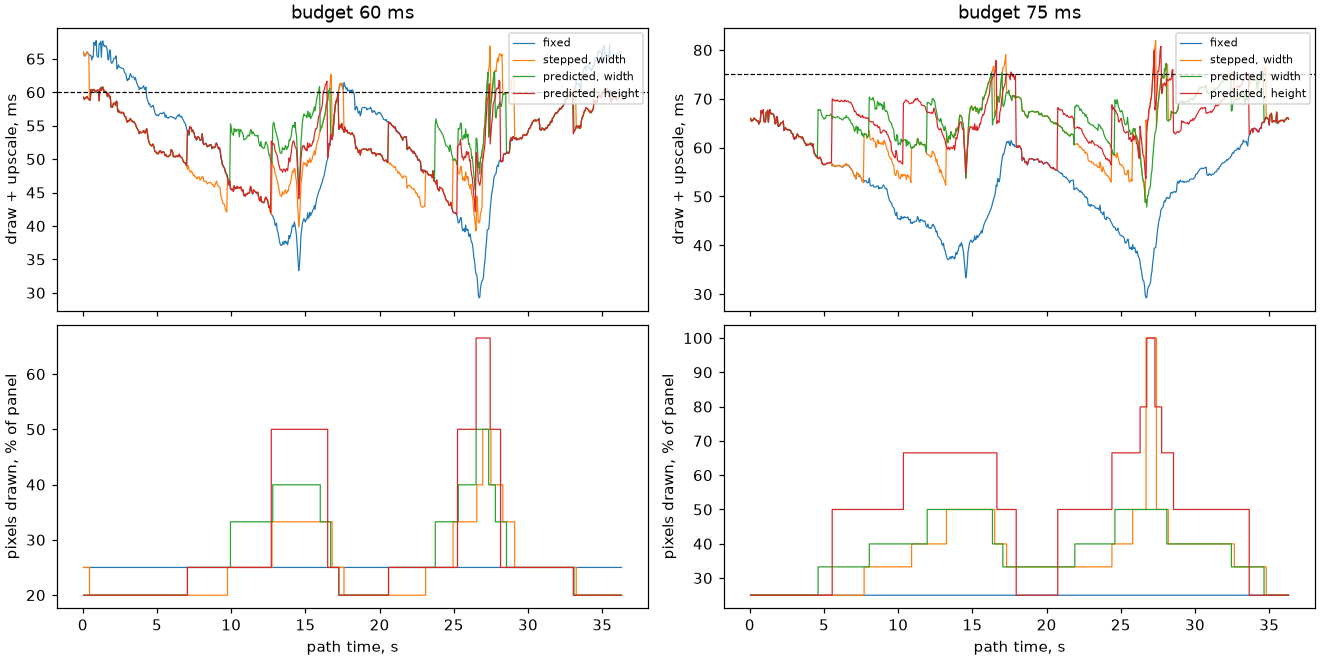
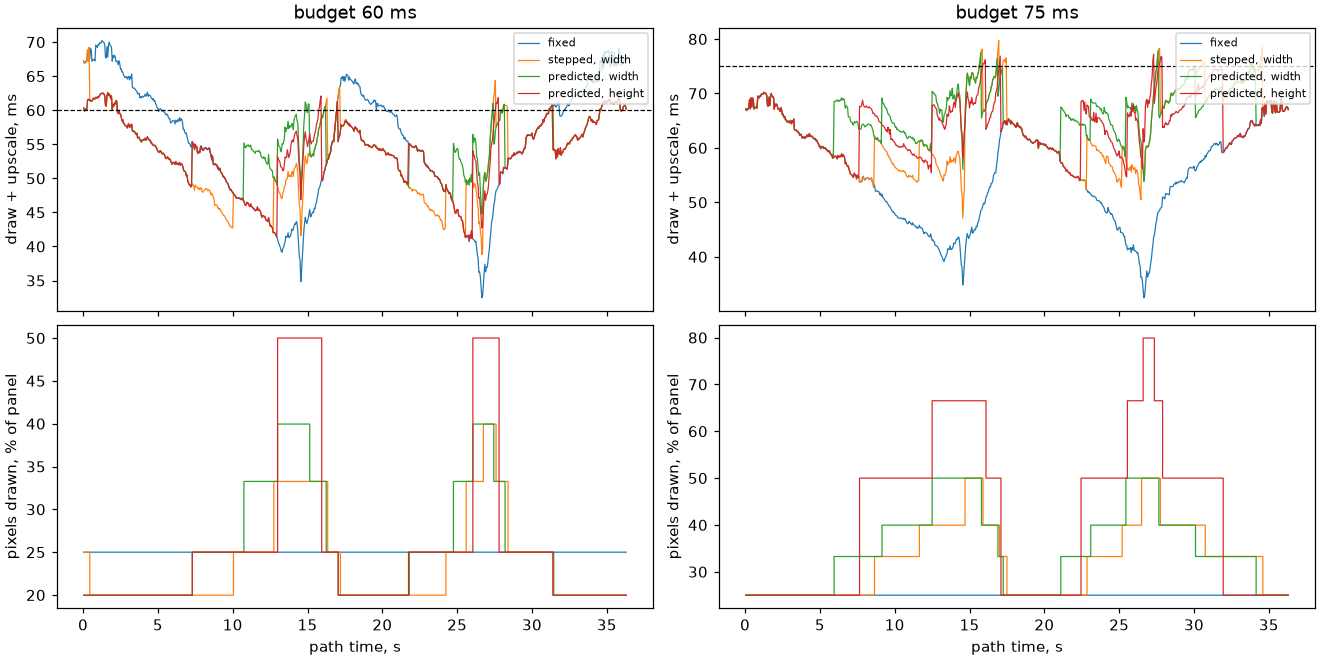
docs: dynamic resolution's tables and chart from the merged build's capture

diff --git a/docs/render/Dynamic-Resolution.md b/docs/render/Dynamic-Resolution.md
@@ -30,26 +30,26 @@ predictor the cull is the census, `r3d.census`. The suite behind
 these tables draws the test scene's path at every size, both cores, and then
 once more on one core with the span rasterizer stopped after each stage.
 
-<!-- generated: dynres-stages sha256=34e0b9b71cc5fc7c9f2d122271a0ceda364390de91e4aba90f187a701df946ff -->
+<!-- generated: dynres-stages sha256=626f185dacdc38357ec4f73079671705e20598f87e5207ef003755c31d036c72 -->
 | Render size | Divisor | Pixels | Frame mean | p50 | max | cull | transform | draw | upscale | 1 core: setup | rows | span setup | fill |
 |---|---|---|---|---|---|---|---|---|---|---|---|---|---|
-| 368x448 | 1.00 | 100% | 106.9 | 108.3 | 126.6 | 0.6 | 4.4 | 91.6 | 10.3 | 32.9 | 33.5 | 33.4 | 44.7 |
-| 184x448 | 2.00 x 1.00 | 50% | 81.7 | 82.5 | 96.9 | 0.6 | 4.4 | 69.4 | 7.3 | 30.7 | 32.0 | 28.7 | 19.5 |
-| 184x358 | 2.00 x 1.25 | 40% | 69.9 | 71.5 | 85.4 | 0.6 | 4.4 | 58.2 | 6.6 | 29.8 | 26.3 | 22.9 | 13.8 |
-| 184x298 | 2.00 x 1.50 | 33% | 62.6 | 63.3 | 77.1 | 0.6 | 4.4 | 51.2 | 6.3 | 29.1 | 22.5 | 19.0 | 10.7 |
-| 184x224 | 2.00 | 25% | 53.3 | 54.0 | 66.0 | 0.6 | 4.4 | 42.4 | 5.9 | 28.1 | 17.7 | 14.2 | 7.3 |
-| 184x179 | 2.00 x 2.50 | 20% | 47.7 | 48.1 | 59.8 | 0.6 | 4.4 | 37.0 | 5.6 | 27.3 | 14.8 | 11.3 | 4.9 |
-| 184x149 | 2.00 x 3.01 | 17% | 43.9 | 44.6 | 55.0 | 0.6 | 4.4 | 33.4 | 5.4 | 26.7 | 12.8 | 9.3 | 3.5 |
-| 368x358 | 1.00 x 1.25 | 80% | 90.7 | 91.6 | 110.1 | 0.6 | 4.4 | 76.4 | 9.3 | 32.1 | 27.7 | 26.7 | 34.1 |
-| 368x298 | 1.00 x 1.50 | 67% | 79.7 | 79.7 | 97.5 | 0.6 | 4.4 | 66.4 | 8.2 | 31.6 | 23.8 | 22.1 | 27.2 |
-| 368x224 | 1.00 x 2.00 | 50% | 66.3 | 66.2 | 81.7 | 0.6 | 4.4 | 54.0 | 7.3 | 30.7 | 18.9 | 16.6 | 19.0 |
-| 294x358 | 1.25 | 64% | 84.2 | 84.7 | 102.4 | 0.6 | 4.4 | 69.4 | 9.7 | 31.3 | 27.3 | 25.5 | 25.6 |
-| 276x336 | 1.33 | 56% | 79.4 | 79.8 | 97.2 | 0.6 | 4.4 | 64.7 | 9.7 | 30.9 | 25.7 | 23.6 | 22.4 |
-| 245x298 | 1.50 | 44% | 70.8 | 70.8 | 87.1 | 0.6 | 4.4 | 56.8 | 8.9 | 30.1 | 23.0 | 20.4 | 16.1 |
-| 210x256 | 1.75 | 33% | 63.6 | 64.6 | 78.2 | 0.6 | 4.4 | 50.0 | 8.6 | 29.0 | 20.0 | 16.8 | 12.4 |
-| 245x224 | 1.50 x 2.00 | 33% | 60.4 | 60.6 | 74.7 | 0.6 | 4.4 | 46.6 | 8.7 | 29.1 | 18.2 | 15.3 | 11.3 |
-| 147x179 | 2.50 | 16% | 47.5 | 47.9 | 58.8 | 0.6 | 4.4 | 34.6 | 7.7 | 26.5 | 14.4 | 10.6 | 3.2 |
-| 122x149 | 3.02 | 11% | 42.4 | 43.2 | 52.4 | 0.6 | 4.4 | 29.8 | 7.5 | 25.2 | 12.1 | 8.2 | 1.3 |
+| 368x448 | 1.00 | 100% | 115.2 | 114.9 | 135.1 | 0.7 | 4.3 | 99.8 | 10.4 | 33.6 | 34.5 | 35.0 | 54.3 |
+| 184x448 | 2.00 x 1.00 | 50% | 87.2 | 87.6 | 103.1 | 0.7 | 4.3 | 74.7 | 7.5 | 31.5 | 33.1 | 30.4 | 23.5 |
+| 184x358 | 2.00 x 1.25 | 40% | 74.1 | 74.6 | 88.1 | 0.7 | 4.3 | 62.3 | 6.7 | 30.6 | 27.2 | 24.2 | 16.7 |
+| 184x298 | 2.00 x 1.50 | 33% | 65.9 | 66.5 | 79.2 | 0.7 | 4.3 | 54.5 | 6.3 | 29.9 | 23.2 | 20.1 | 13.0 |
+| 184x224 | 2.00 | 25% | 56.0 | 56.6 | 68.4 | 0.7 | 4.3 | 45.0 | 5.9 | 28.8 | 18.2 | 15.0 | 8.9 |
+| 184x179 | 2.00 x 2.50 | 20% | 50.0 | 50.5 | 61.3 | 0.7 | 4.4 | 39.4 | 5.6 | 28.0 | 15.2 | 11.9 | 6.1 |
+| 184x149 | 2.00 x 3.01 | 17% | 45.8 | 46.6 | 56.2 | 0.7 | 4.3 | 35.3 | 5.4 | 27.4 | 13.1 | 9.9 | 4.5 |
+| 368x358 | 1.00 x 1.25 | 80% | 97.0 | 96.1 | 115.5 | 0.7 | 4.3 | 82.8 | 9.1 | 32.8 | 28.5 | 27.9 | 41.4 |
+| 368x298 | 1.00 x 1.50 | 67% | 84.9 | 84.6 | 101.6 | 0.7 | 4.3 | 71.5 | 8.3 | 32.3 | 24.5 | 23.1 | 33.2 |
+| 368x224 | 1.00 x 2.00 | 50% | 70.4 | 70.2 | 84.3 | 0.7 | 4.3 | 58.0 | 7.3 | 31.4 | 19.4 | 17.4 | 23.3 |
+| 294x358 | 1.25 | 64% | 89.5 | 89.4 | 107.0 | 0.7 | 4.3 | 74.8 | 9.7 | 32.1 | 28.1 | 26.8 | 31.0 |
+| 276x336 | 1.33 | 56% | 84.3 | 84.4 | 100.9 | 0.7 | 4.3 | 69.5 | 9.7 | 31.7 | 26.5 | 24.8 | 27.2 |
+| 245x298 | 1.50 | 44% | 74.6 | 74.6 | 90.0 | 0.7 | 4.3 | 60.6 | 9.0 | 30.8 | 23.8 | 21.5 | 19.4 |
+| 210x256 | 1.75 | 33% | 66.6 | 67.1 | 80.1 | 0.7 | 4.3 | 52.9 | 8.6 | 29.8 | 20.7 | 17.8 | 14.6 |
+| 245x224 | 1.50 x 2.00 | 33% | 63.5 | 63.6 | 77.3 | 0.7 | 4.3 | 49.7 | 8.7 | 29.7 | 18.8 | 16.0 | 13.7 |
+| 147x179 | 2.50 | 16% | 49.5 | 49.4 | 59.9 | 0.7 | 4.3 | 36.6 | 7.7 | 27.2 | 14.8 | 11.3 | 3.9 |
+| 122x149 | 3.02 | 11% | 44.0 | 44.4 | 53.2 | 0.7 | 4.4 | 31.4 | 7.5 | 25.9 | 12.5 | 8.8 | 1.5 |
 
 Milliseconds; both cores unless marked one core.
 <!-- /generated: dynres-stages -->
@@ -64,15 +64,15 @@ floor and the recovery step are named for what they cost, not their scale:
 (122x149) does, the upscale they save paying for the pixels they keep. The one-core setup stage barely moves with size: it is the
 floor no step goes under.
 
-<!-- generated: dynres-findings sha256=212046ff046b6b5eff01cf16021da8edc54b1bf52639a9282c260c912ebe9f4a -->
+<!-- generated: dynres-findings sha256=ba33df7a4543d9136a938f8b8c6ecbdebeeebbd449b2f1393c16fb12d51d0033 -->
 | Question | Compared | Frame | draw | upscale | 1 core: rows | span setup | fill |
 |---|---|---|---|---|---|---|---|
-| half width, more height over half | 184x298 minus 184x224 | 9.3 | 8.9 | 0.4 | 4.8 | 4.8 | 3.4 |
-| half over floor | 184x224 minus 184x179 | 5.6 | 5.3 | 0.3 | 2.9 | 2.9 | 2.4 |
-| floor over 2.5x cost reference | 184x179 minus 147x179 | 0.2 | 2.4 | -2.1 | 0.4 | 0.7 | 1.7 |
-| recovery over 3x cost reference | 184x149 minus 122x149 | 1.5 | 3.6 | -2.1 | 0.7 | 1.1 | 2.3 |
-| full height over half | 368x448 minus 368x224 | 40.6 | 37.7 | 3.0 | 14.6 | 16.8 | 25.8 |
-| full width over half | 368x448 minus 184x448 | 25.2 | 22.2 | 3.0 | 1.5 | 4.7 | 25.2 |
+| half width, more height over half | 184x298 minus 184x224 | 9.9 | 9.5 | 0.5 | 5.0 | 5.1 | 4.0 |
+| half over floor | 184x224 minus 184x179 | 6.0 | 5.7 | 0.3 | 3.0 | 3.1 | 2.8 |
+| floor over 2.5x cost reference | 184x179 minus 147x179 | 0.6 | 2.7 | -2.1 | 0.4 | 0.7 | 2.2 |
+| recovery over 3x cost reference | 184x149 minus 122x149 | 1.8 | 3.9 | -2.1 | 0.6 | 1.1 | 2.9 |
+| full height over half | 368x448 minus 368x224 | 44.8 | 41.7 | 3.1 | 15.1 | 17.6 | 31.0 |
+| full width over half | 368x448 minus 184x448 | 28.0 | 25.1 | 2.9 | 1.5 | 4.6 | 30.8 |
 <!-- /generated: dynres-findings -->
 
 ## The policies on the board
@@ -82,17 +82,17 @@ manager, at two budgets; the fixed row is the camera's half scale. The quality
 columns score every frame's size against the reference render of the same
 pose at full size ([Render-Harness.md](../tools/Render-Harness.md)).
 
-<!-- generated: dynres-policies sha256=958425251a0fe5d04eccd3ba6e69754396192eb57e4741018f9e70b23a8c1456 -->
+<!-- generated: dynres-policies sha256=90fe1b45e78b21a8cc033727a666c75c0c737ed3a690c88a4f4b7dde399d386a -->
 | Budget | Policy | Ladder | p50 | p95 | max | Over budget | Switches | Time at each size | Mean dE | SSIM |
 |---|---|---|---|---|---|---|---|---|---|---|
-| 60.0 | fixed | half | 53.9 | 65.6 | 67.7 | 23.6% | 0 | 184x224 100% | 9.30 | 0.5562 |
-| 60.0 | stepped | width | 51.2 | 60.8 | 66.9 | 10.9% | 13 | 184x448 2%, 184x358 3%, 184x298 18%, 184x224 28%, 184x179 49% | 9.31 | 0.5549 |
-| 60.0 | predicted | width | 54.0 | 60.1 | 63.1 | 5.6% | 14 | 184x448 2%, 184x358 13%, 184x298 16%, 184x224 31%, 184x179 37% | 9.31 | 0.5551 |
-| 60.0 | predicted | height | 52.5 | 60.1 | 61.8 | 5.9% | 10 | 368x298 3%, 368x224 16%, 184x224 44%, 184x179 38% | 9.30 | 0.5560 |
-| 75.0 | fixed | half | 53.9 | 65.6 | 67.7 | 0.0% | 0 | 184x224 100% | 9.30 | 0.5562 |
-| 75.0 | stepped | width | 64.5 | 74.6 | 81.9 | 4.1% | 12 | 368x448 2%, 184x448 14%, 184x358 25%, 184x298 34%, 184x224 25% | 9.28 | 0.5574 |
-| 75.0 | predicted | width | 66.2 | 73.8 | 77.2 | 1.2% | 10 | 184x448 22%, 184x358 32%, 184x298 29%, 184x224 17% | 9.28 | 0.5576 |
-| 75.0 | predicted | height | 65.3 | 74.1 | 80.8 | 2.3% | 12 | 368x448 2%, 368x358 2%, 368x298 25%, 368x224 41%, 184x224 30% | 9.26 | 0.5599 |
+| 60.0 | fixed | half | 56.0 | 68.1 | 70.2 | 36.6% | 0 | 184x224 100% | 9.59 | 0.5478 |
+| 60.0 | stepped | width | 53.7 | 61.7 | 69.2 | 14.6% | 11 | 184x358 2%, 184x298 15%, 184x224 23%, 184x179 60% | 9.61 | 0.5465 |
+| 60.0 | predicted | width | 54.6 | 61.4 | 62.6 | 13.5% | 12 | 184x358 10%, 184x298 15%, 184x224 29%, 184x179 47% | 9.61 | 0.5468 |
+| 60.0 | predicted | height | 54.2 | 61.5 | 62.6 | 12.9% | 8 | 368x224 13%, 184x224 40%, 184x179 47% | 9.60 | 0.5475 |
+| 75.0 | fixed | half | 56.0 | 68.1 | 70.2 | 0.0% | 0 | 184x224 100% | 9.59 | 0.5478 |
+| 75.0 | stepped | width | 61.8 | 74.7 | 79.7 | 4.3% | 12 | 184x448 7%, 184x358 23%, 184x298 27%, 184x224 43% | 9.59 | 0.5483 |
+| 75.0 | predicted | width | 66.4 | 73.5 | 77.8 | 1.4% | 12 | 184x448 15%, 184x358 25%, 184x298 26%, 184x224 33% | 9.59 | 0.5485 |
+| 75.0 | predicted | height | 64.6 | 73.2 | 77.2 | 1.7% | 10 | 368x358 2%, 368x298 14%, 368x224 36%, 184x224 48% | 9.57 | 0.5504 |
 
 Frame time is the scaled part, draw plus upscale, in milliseconds; dE and SSIM are against the reference at full size, lower dE and higher SSIM being closer.
 <!-- /generated: dynres-policies -->
